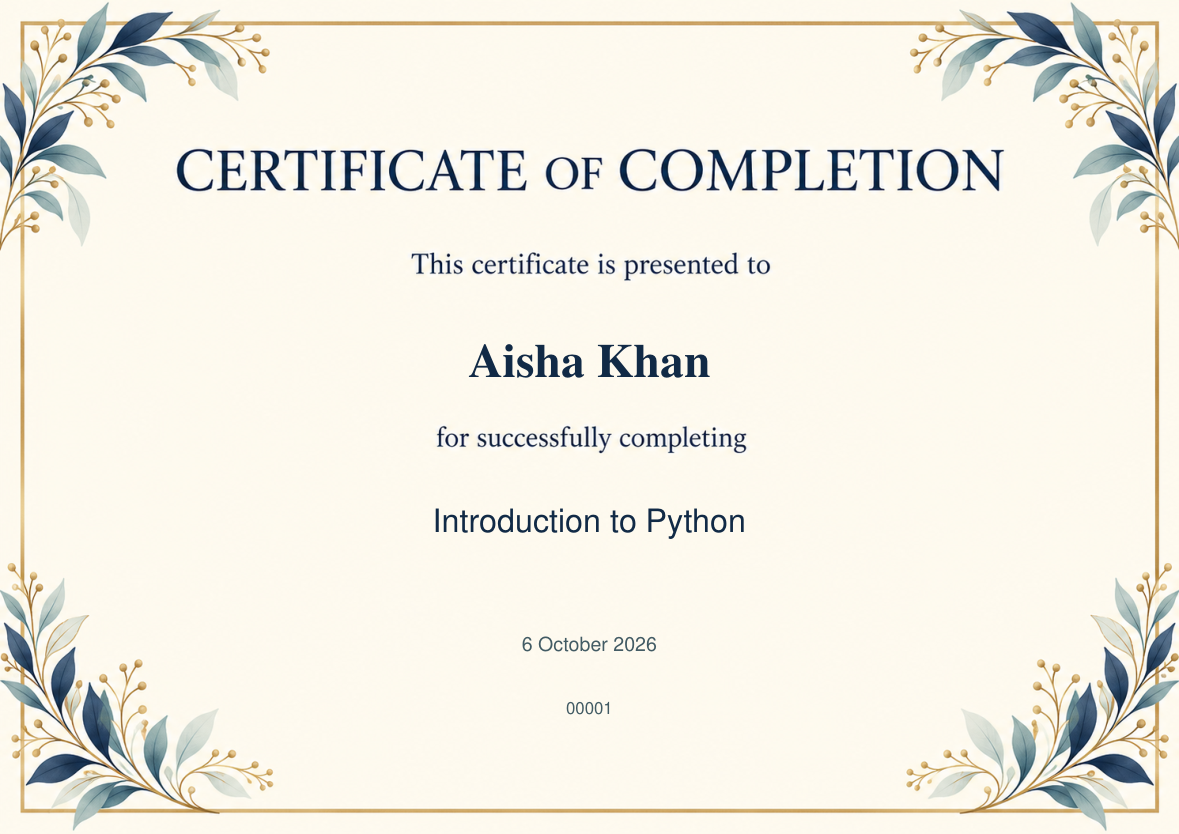
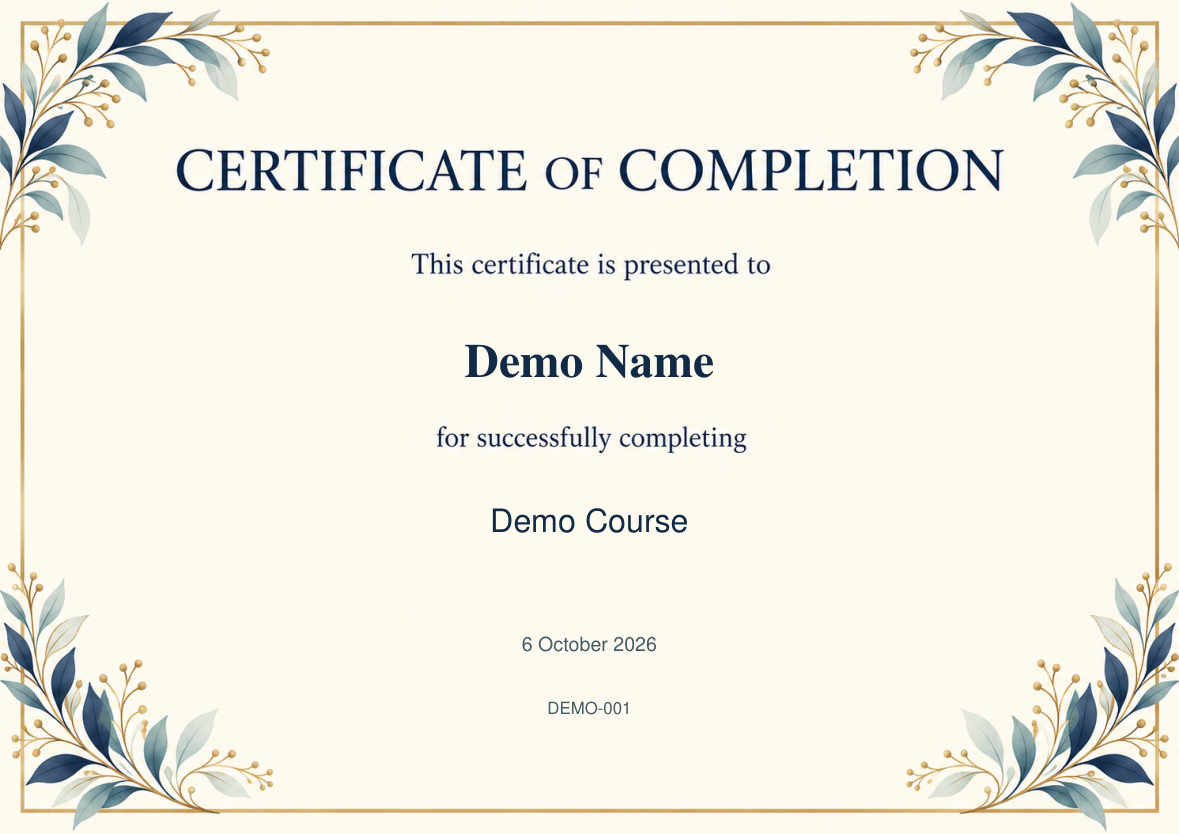
docs: replace named samples with a single generic demo

Changed region(s): [[0.3664, 0.5923, 0.6412, 0.6547], [0.3969, 0.4053, 0.6107, 0.4676], [0.458, 0.8417, 0.5191, 0.8729]]

diff --git a/app/static/studio.js b/app/static/studio.js
@@ -22,7 +22,7 @@ new ResizeObserver(render).observe($('canvas'));
 async function poll(){if(!state.job)return;try{const job=await api(`/jobs/${state.job}`);$('progress').value=job.progress_percent;$('job-counts').textContent=`${job.counts.succeeded} generated · ${job.counts.failed} failed · ${job.counts.pending+job.counts.processing} remaining`;$('job-status').textContent=job.status==='completed'?'Your certificates are ready.':job.status==='completed_with_errors'?'Batch complete, with some failed recipients.':job.status==='failed'?'No certificates were generated.':'Generating certificates…';const data=await api(`/jobs/${state.job}/recipients?limit=1000`);$('job-results').replaceChildren();data.items.forEach(item=>{const tr=document.createElement('tr');for(const [index,value] of [item.name||`Row ${item.index+2}`,item.status].entries()){const td=document.createElement('td');td.textContent=value;if(index===1)td.className='status-cell status-'+item.status;tr.append(td);}const td=document.createElement('td');if(item.download_url){const a=document.createElement('a');a.href=item.download_url;a.textContent='Download PDF ↓';td.append(a);}else td.textContent=item.error?.message||'Waiting';tr.append(td);$('job-results').append(tr);});$('refresh-job').hidden=true;if(['queued','processing'].includes(job.status)){setTimeout(poll,1000);}else{state.busy=false;ready();$('job-panel').classList.add('complete');celebrate(state.job,job.counts.succeeded);if(job.counts.succeeded){$('zip-download').href=`/jobs/${state.job}/download`;$('zip-download').hidden=false;}}}catch(error){message(`Could not check progress: ${error.message}`);$('refresh-job').hidden=false;}}
 $('refresh-job').onclick=poll;
 $('generate').onclick=async()=>{state.busy=true;ready();message();try{const payload={image_id:state.image.image_id,sheet_id:state.sheet.sheet_id,name_column:$('name-column').value,title:$('title').value,width_mm:state.width,height_mm:state.height,fields:state.fields.map(({id,...field})=>field)};const job=await api('/builder/jobs',{method:'POST',headers:{'Content-Type':'application/json'},body:JSON.stringify(payload)});state.job=job.job_id;localStorage.setItem('certificate-job',state.job);$('job-panel').hidden=false;$('job-panel').classList.remove('complete');$('zip-download').hidden=true;$('job-panel').scrollIntoView({behavior:motionAllowed()?'smooth':'auto'});poll();}catch(error){message(error.message);state.busy=false;ready();}};
-$('demo').onclick=async()=>{state.busy=true;ready();$('demo').disabled=true;message('Preparing sample files…');try{const canvas=document.createElement('canvas');canvas.width=1400;canvas.height=990;const c=canvas.getContext('2d');c.fillStyle='#fffdf6';c.fillRect(0,0,1400,990);c.strokeStyle='#b18c42';c.lineWidth=6;c.strokeRect(40,40,1320,910);c.strokeStyle='#d8c9a5';c.lineWidth=1;c.strokeRect(55,55,1290,880);c.textAlign='center';c.fillStyle='#203d31';c.font='42px Georgia';c.fillText('CERTIFICATE OF COMPLETION',700,210);c.font='22px Arial';c.fillText('This certificate is proudly presented to',700,320);c.fillText('for successfully completing',700,540);c.font='18px Arial';c.fillText('Recognizing dedication, curiosity, and achievement.',700,780);const blob=await new Promise(resolve=>canvas.toBlob(resolve,'image/png'));await imageUpload(new File([blob],'sample-certificate.png',{type:'image/png'}));await sheetUpload(new File(['Name,Course,Number\nAisha Khan,Introduction to Python,BCG-001\nRahul Sharma,Introduction to Python,BCG-002\nMeera Patel,Introduction to Python,BCG-003\n'],'sample-recipients.csv',{type:'text/csv'}));addField('Name');state.fields[0].y_mm=96;state.fields[0].font='Times-Bold';state.fields[0].font_size_pt=36;addField('Course');state.fields[1].y_mm=130;state.fields[1].font_size_pt=22;addField('Number');state.fields[2].y_mm=180;state.fields[2].font_size_pt=12;render();inspect();message('Sample loaded. Drag the fields or generate three certificates.');}catch(error){message(error.message);}finally{state.busy=false;ready();$('demo').disabled=false;}};
+$('demo').onclick=async()=>{state.busy=true;ready();$('demo').disabled=true;message('Preparing sample files…');try{const canvas=document.createElement('canvas');canvas.width=1400;canvas.height=990;const c=canvas.getContext('2d');c.fillStyle='#fffdf6';c.fillRect(0,0,1400,990);c.strokeStyle='#b18c42';c.lineWidth=6;c.strokeRect(40,40,1320,910);c.strokeStyle='#d8c9a5';c.lineWidth=1;c.strokeRect(55,55,1290,880);c.textAlign='center';c.fillStyle='#203d31';c.font='42px Georgia';c.fillText('CERTIFICATE OF COMPLETION',700,210);c.font='22px Arial';c.fillText('This certificate is proudly presented to',700,320);c.fillText('for successfully completing',700,540);c.font='18px Arial';c.fillText('Recognizing dedication, curiosity, and achievement.',700,780);const blob=await new Promise(resolve=>canvas.toBlob(resolve,'image/png'));await imageUpload(new File([blob],'sample-certificate.png',{type:'image/png'}));await sheetUpload(new File(['Name,Course,Number\nDemo Name,Demo Course,DEMO-001\n'],'sample-recipients.csv',{type:'text/csv'}));addField('Name');state.fields[0].y_mm=96;state.fields[0].font='Times-Bold';state.fields[0].font_size_pt=36;addField('Course');state.fields[1].y_mm=130;state.fields[1].font_size_pt=22;addField('Number');state.fields[2].y_mm=180;state.fields[2].font_size_pt=12;render();inspect();message('Sample loaded. Drag the fields or generate one certificate.');}catch(error){message(error.message);}finally{state.busy=false;ready();$('demo').disabled=false;}};
 const previous=localStorage.getItem('certificate-job');if(previous){state.job=previous;$('job-panel').hidden=false;poll();}
 
 function motionAllowed(){return !matchMedia('(prefers-reduced-motion: reduce)').matches&&!document.body.classList.contains('motion-paused');}

diff --git a/tests/test_application.py b/tests/test_application.py
@@ -23,12 +23,12 @@ def system(tmp_path):
 
 def submit(client, recipients=None):
     return client.post("/jobs", json={"course_name": "Python Course", "issue_date": "2026-10-06",
-                                     "recipients": recipients if recipients is not None else [{"name": "Aisha Khan"}]})
+                                     "recipients": recipients if recipients is not None else [{"name": "Demo Name"}]})
 
 
 def test_complete_workflow(system):
     client, app, settings = system
-    response = submit(client, [{"name": "Aisha Khan"}, {"name": ""}, {"name": "Rahul Sharma"}])
+    response = submit(client, [{"name": "Demo Name"}, {"name": ""}, {"name": "Demo Recipient"}])
     assert response.status_code == 202
     job = response.json()["job_id"]
     assert response.json()["accepted"] == 2
@@ -44,7 +44,7 @@ def test_complete_workflow(system):
     assert pdf.headers["content-type"] == "application/pdf"
     reader = PdfReader(io.BytesIO(pdf.content))
     assert len(reader.pages) == 1
-    assert "Aisha Khan" in reader.pages[0].extract_text()
+    assert "Demo Name" in reader.pages[0].extract_text()
     assert float(reader.pages[0].mediabox.width) == pytest.approx(841.89, abs=.1)
     archive = client.get(f"/jobs/{job}/download")
     with zipfile.ZipFile(io.BytesIO(archive.content)) as output:

diff --git a/tests/test_builder.py b/tests/test_builder.py
@@ -20,7 +20,7 @@ def test_uploaded_design_excel_and_custom_fields(tmp_path):
         background = client.post("/builder/images", files={"file": ("design.png", image.getvalue(), "image/png")}).json()
         workbook = Workbook()
         workbook.active.append(["Name", "Number"])
-        workbook.active.append(["Aisha Khan", "00123"])
+        workbook.active.append(["Demo Name", "00123"])
         workbook.active.append([None, "456"])
         data = io.BytesIO()
         workbook.save(data)
@@ -41,7 +41,7 @@ def test_uploaded_design_excel_and_custom_fields(tmp_path):
         result = client.get(f"/jobs/{job}/recipients").json()["items"][0]
         pdf = PdfReader(io.BytesIO(client.get(result["download_url"]).content))
         text = pdf.pages[0].extract_text()
-        assert "Aisha Khan" in text and "00123" in text
+        assert "Demo Name" in text and "00123" in text
         assert len(pdf.pages[0].images) == 1
         assert client.get(f"/jobs/{job}/download").status_code == 200
         payload["fields"][0]["column"] = "Missing"

diff --git a/README.md b/README.md
@@ -27,8 +27,8 @@ The frontend uses HTML/CSS/JavaScript served by FastAPI, with a locally vendored
 The repository includes files from a live end-to-end check:
 
 - [Certificate background](examples/certificate-background.png): generated dummy artwork with blank areas for personalized text.
-- [Recipient Excel sheet](examples/recipients.xlsx): five valid recipients and one intentionally blank name.
-- [Generated sample PDF](examples/generated-certificate.pdf): the output for Aisha Khan.
+- [Recipient Excel sheet](examples/recipients.xlsx): one generic recipient named Demo Name.
+- [Generated sample PDF](examples/generated-certificate.pdf): the output for Demo Name.
 
 Start the API and worker, then upload the background and workbook through the studio. Select **Name** as the recipient name column and add the following fields. The sample uses a 297 × 210 mm page; enter these coordinates in the inspector for the illustrated result.
 
@@ -39,7 +39,7 @@ Start the API and worker, then upload the background and workbook through the st
 | Issue Date | 148.5 | 164 | 200 | Helvetica | 14 | `#425c64` |
 | Number | 148.5 | 180 | 200 | Helvetica | 12 | `#425c64` |
 
-Use center alignment for all four fields. Select a recipient in the preview dropdown, then generate. Expected result: **5 successful PDFs, 1 validation failure, 100% processed, and `completed_with_errors`**. The ZIP contains five PDFs and a six-entry manifest. The sample sheet preserves numbers such as `00001` as text and includes a long name to exercise layout fitting.
+Use center alignment for all four fields. Select a recipient in the preview dropdown, then generate. Expected result: **1 successful PDF, 0 failures, 100% processed, and `completed`**. The ZIP contains one PDF and a one-entry manifest. The sample uses generic values: Demo Name, Demo Course, and DEMO-001.
 
 ![Generated certificate using the included files](examples/generated-certificate.png)
 
@@ -173,12 +173,8 @@ Base URL for local development: `http://127.0.0.1:8000`.
   "recipients": [
     {
       "reference": "participant-001",
-      "name": "Aisha Khan",
-      "email": "aisha@example.com"
-    },
-    {
-      "reference": "participant-002",
-      "name": "Rahul Sharma"
+      "name": "Demo Name",
+      "email": "demo@example.com"
     }
   ]
 }
@@ -293,7 +289,7 @@ An optional `status` filter supports requests such as `?status=failed`. Paginati
     {
       "index": 0,
       "reference": "participant-001",
-      "name": "Aisha Khan",
+      "name": "Demo Name",
       "status": "succeeded",
       "certificate_id": "9bf22138-2c50-48f4-b449-af1e165b9a61",
       "download_url": "/jobs/6c014a7e-13e1-4f50-952e-7ae61c948a8b/certificates/9bf22138-2c50-48f4-b449-af1e165b9a61",
@@ -589,7 +585,7 @@ On 6 October 2026, the included dummy background and Excel file were submitted t
 | Download association | Certificate requested under another job returned 404 |
 | Visual output | Normal and long-name certificate PDFs inspected; text fit and placement checked |
 
-The files in `examples/` let you repeat this check. The generated background is illustrative AI-created dummy artwork, not an organization-issued certificate. PyMuPDF was used locally to inspect output and is not an application dependency.
+The historical six-row check above verified failure isolation. The files in `examples/` now contain only one generic Demo Name sample, which was also checked through the live API. The generated background is illustrative AI-created dummy artwork, not an organization-issued certificate. PyMuPDF was used locally to inspect output and is not an application dependency.
 
 Browser responsiveness, real touch gestures, and GPU rendering remain unverified: browser automation was blocked by the tool URL policy. The current Python dependency combination emits a Starlette TestClient deprecation warning; the tests still pass.
 
